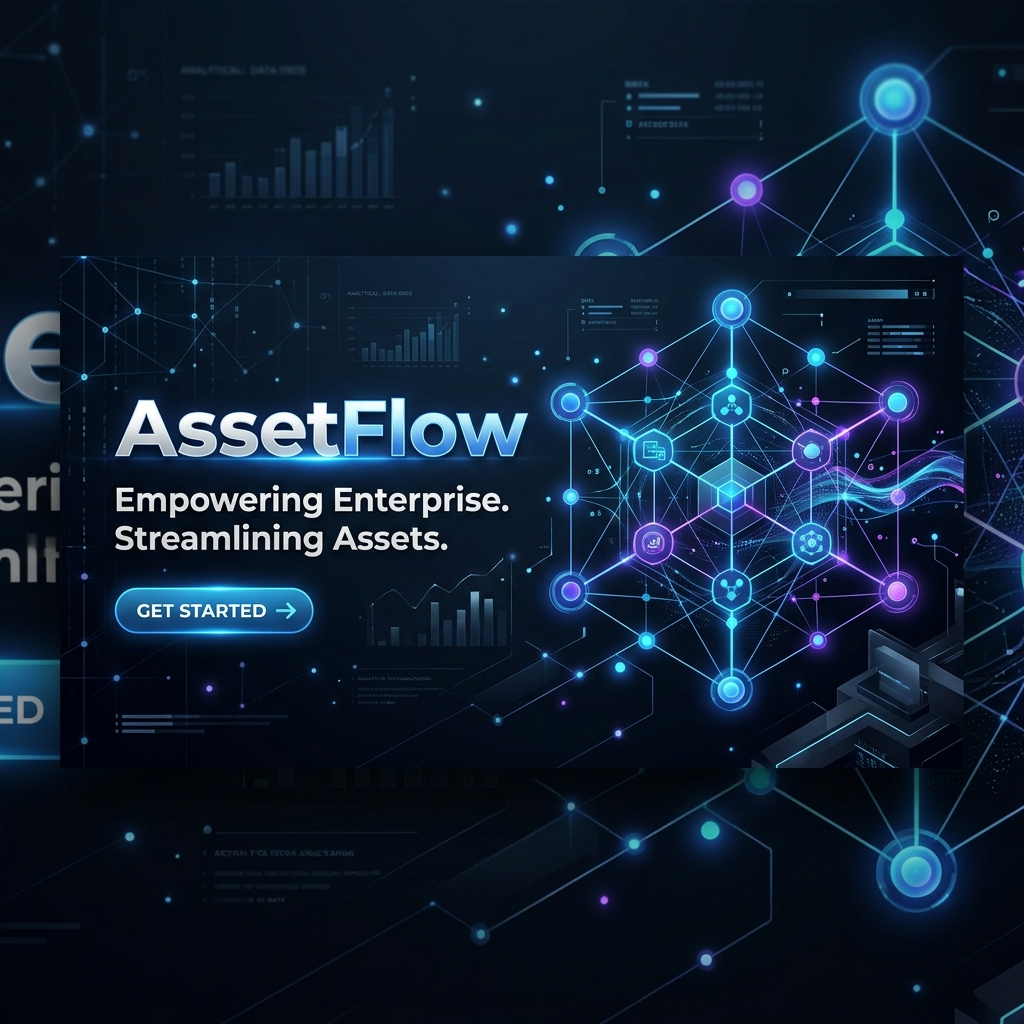
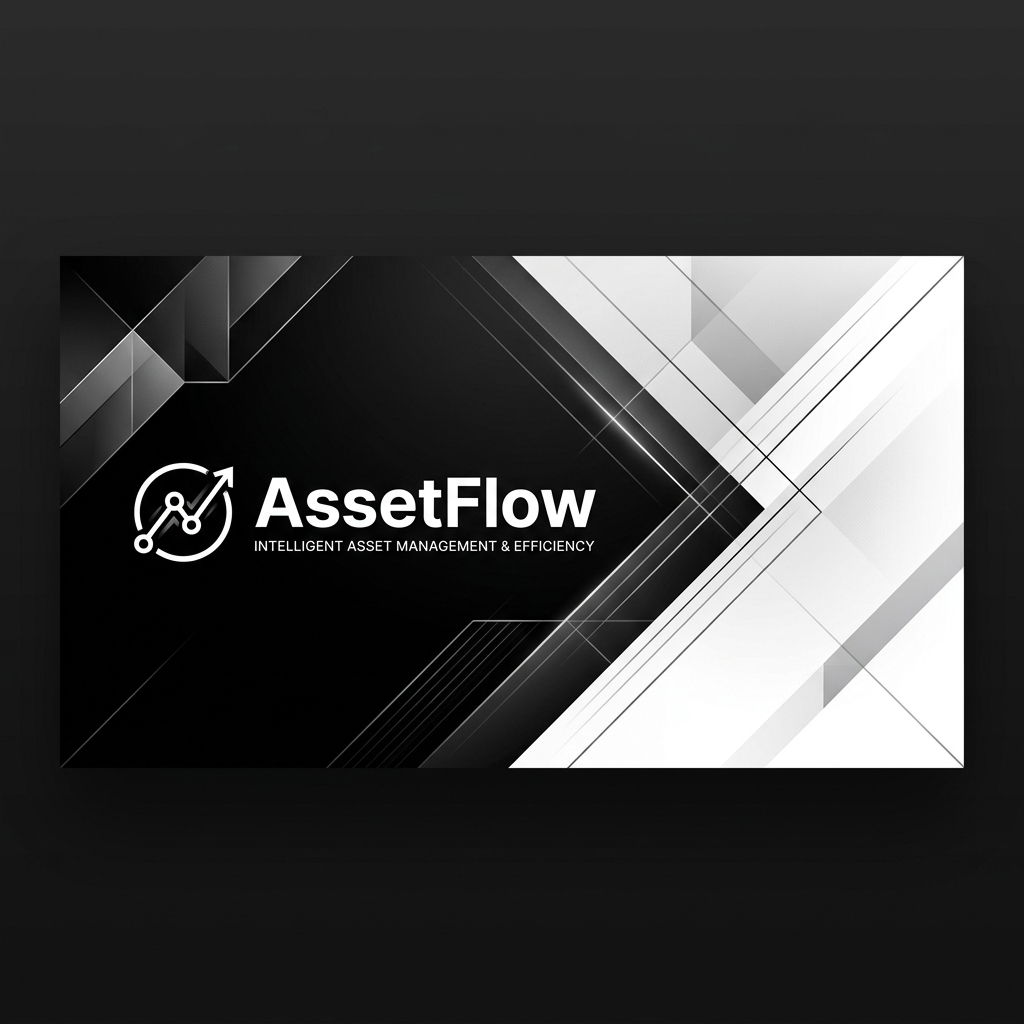
fix: resolve assets UI, audits loading, and dashboard hydration errors

diff --git a/apps/api/src/modules/assets/asset.routes.ts b/apps/api/src/modules/assets/asset.routes.ts
@@ -1,4 +1,4 @@
-import { Router } from 'express';
+import { Router } from 'express';
 import { authenticate } from '../../shared/middleware/auth.middleware';
 import {
   authorize,
@@ -30,7 +30,7 @@ router.use(authenticate);
  */
 router.get(
   '/',
-  authorize(allRoles),
+  allRoles,
   validate(AssetSearchDto, 'query'),
   AssetController.getAll,
 );
@@ -42,7 +42,7 @@ router.get(
  */
 router.post(
   '/',
-  authorize(managerOrAdmin),
+  managerOrAdmin,
   upload.single('photo'),
   validate(CreateAssetDto),
   AssetController.register,
@@ -55,7 +55,7 @@ router.post(
  * Returns per-status asset counts for the dashboard KPI section.
  * Accessible to all authenticated roles.
  */
-router.get('/stats', authorize(allRoles), AssetController.getStats);
+router.get('/stats', allRoles, AssetController.getStats);
 
 // ── Single-resource routes ────────────────────────────────────────────────────
 
@@ -64,7 +64,7 @@ router.get('/stats', authorize(allRoles), AssetController.getStats);
  * Returns full asset detail including recent allocations and maintenances.
  * Accessible to all authenticated roles.
  */
-router.get('/:id', authorize(allRoles), AssetController.getById);
+router.get('/:id', allRoles, AssetController.getById);
 
 /**
  * PUT /assets/:id
@@ -73,7 +73,7 @@ router.get('/:id', authorize(allRoles), AssetController.getById);
  */
 router.put(
   '/:id',
-  authorize(managerOrAdmin),
+  managerOrAdmin,
   upload.single('photo'),
   validate(UpdateAssetDto),
   AssetController.update,
@@ -86,7 +86,7 @@ router.put(
  */
 router.patch(
   '/:id/status',
-  authorize(managerOrAdmin),
+  managerOrAdmin,
   validate(AssetStatusPatchDto),
   AssetController.patchStatus,
 );
@@ -96,6 +96,6 @@ router.patch(
  * Permanently remove an asset. Blocked when an active allocation exists.
  * Restricted to admins only.
  */
-router.delete('/:id', authorize(adminOnly), AssetController.remove);
+router.delete('/:id', adminOnly, AssetController.remove);
 
 export default router;

diff --git a/apps/web/src/app/(dashboard)/assets/page.tsx b/apps/web/src/app/(dashboard)/assets/page.tsx
@@ -49,8 +49,12 @@ export default function AssetsPage() {
       try {
         const response = await api.get("/assets");
         if (response.data.success) {
-          setAssets(response.data.data.data);
-          setMeta(response.data.data.meta);
+          setAssets(response.data.data || []);
+          setMeta({
+            total: response.data.total || 0,
+            page: response.data.page || 1,
+            limit: response.data.limit || 20,
+          });
         }
       } catch (error) {
         console.error("Failed to fetch assets:", error);

diff --git a/apps/web/src/components/layout/Shell.tsx b/apps/web/src/components/layout/Shell.tsx
@@ -112,7 +112,7 @@ export function Shell({ children }: { children: React.ReactNode }) {
             
             <DropdownMenu>
               <DropdownMenuTrigger asChild>
-                <button className="flex items-center gap-2 focus:outline-none">
+                <div role="button" tabIndex={0} className="flex items-center gap-2 focus:outline-none cursor-pointer">
                   <div className="text-right hidden sm:block">
                     <p className="text-sm font-medium text-gray-900 dark:text-white leading-none">{user.name}</p>
                     <p className="text-xs text-gray-500 mt-1">{user.role}</p>
@@ -122,7 +122,7 @@ export function Shell({ children }: { children: React.ReactNode }) {
                       {user.name.substring(0, 2).toUpperCase()}
                     </AvatarFallback>
                   </Avatar>
-                </button>
+                </div>
               </DropdownMenuTrigger>
               <DropdownMenuContent align="end" className="w-56">
                 <DropdownMenuLabel>My Account</DropdownMenuLabel>

diff --git a/apps/web/src/app/(dashboard)/audits/page.tsx b/apps/web/src/app/(dashboard)/audits/page.tsx
@@ -51,7 +51,7 @@ export default function AuditsPage() {
   const { data: audits = [], isLoading, error } = useQuery<Audit[]>({
     queryKey: ['audits'],
     queryFn: async () => {
-      const response = await api.get('/audits');
+      const response = await api.get('/audit-cycles');
       return response.data?.data || response.data || [];
     },
   });